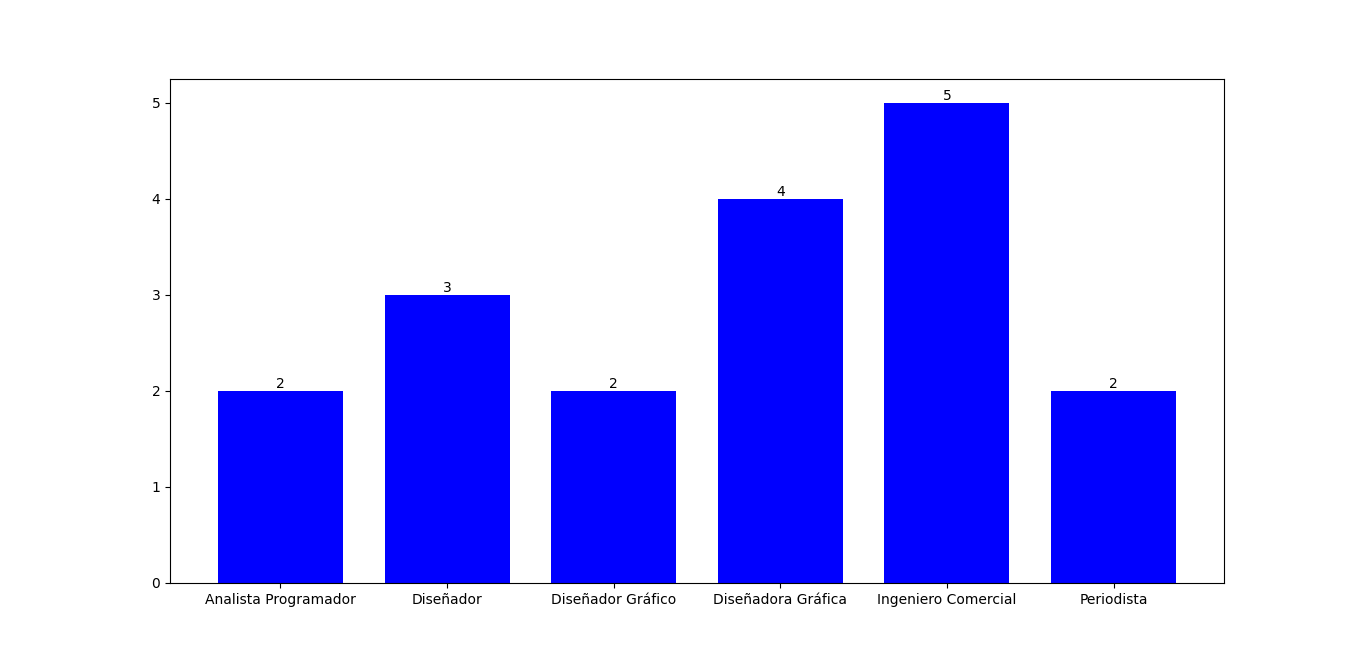
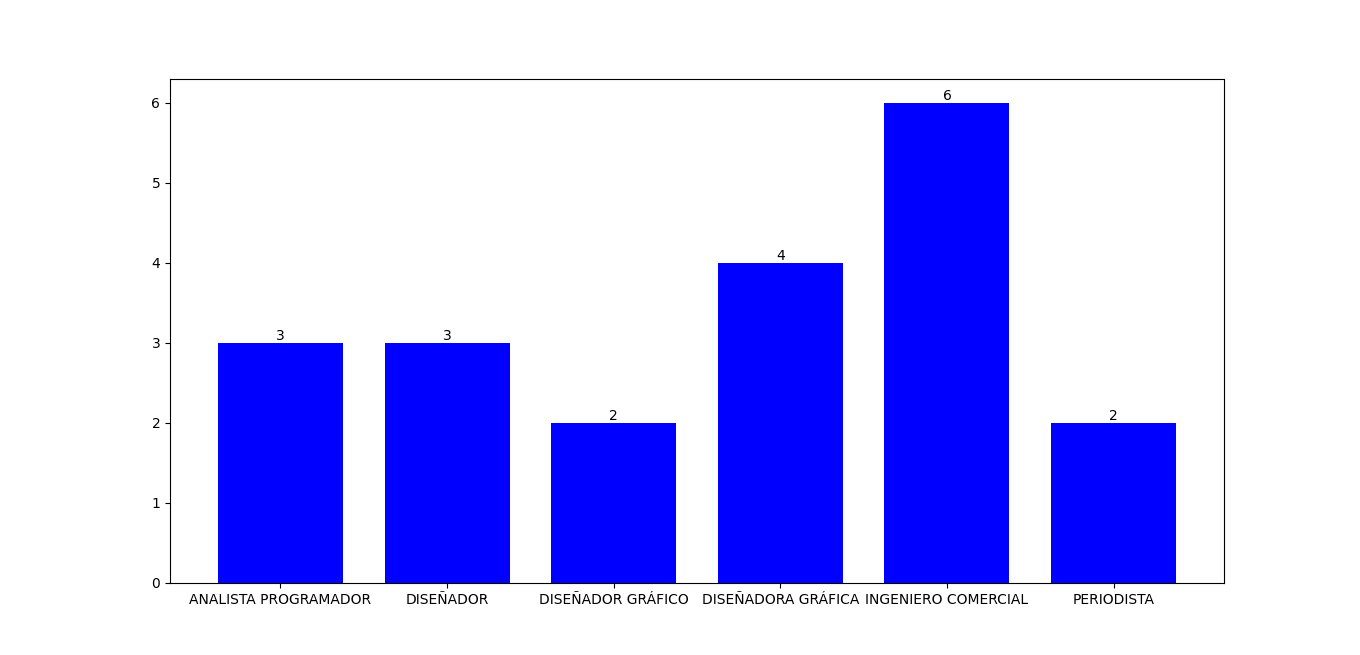
cambios

diff --git a/datos_usuarios/analisis.py b/datos_usuarios/analisis.py
@@ -20,7 +20,9 @@ usuarios['desc_profesional']=usuarios['desc_profesional'].str.strip()
 agrupar_por_comuna=merge.groupby(['Nombre Comuna'])[['nomb_usuario']].count()
 agrupar_por_region=merge.groupby(['Nombre Región'])[['nomb_usuario']].count()
 
-agrupar_por_cat=usuarios.groupby(['desc_profesional'], dropna=False)[['nomb_usuario']].count()
+
+usuarios['desc_profesional']=usuarios['desc_profesional'].str.upper()
+agrupar_por_cat=usuarios.groupby(['desc_profesional'])[['nomb_usuario']].count()
 
 
 #imprimir los datos
@@ -38,11 +40,11 @@ print(usuarios.isna().sum())
 
 agrupar_por_cat=agrupar_por_cat.reset_index()
 
-
+print(agrupar_por_cat)
 
 #sacar un grafico
 
-"""
+
 x=agrupar_por_cat['desc_profesional']
 y=agrupar_por_cat[agrupar_por_cat['nomb_usuario']!=1]
 
@@ -51,17 +53,16 @@ fig, ax = plt.subplots()
 
 
 
-plt.bar(y['desc_profesional'],y['nomb_usuario'],width=0.75, color="blue" )
+plt.bar(y['desc_profesional'] ,y['nomb_usuario'] ,width=0.75, color="blue" )
 
 ax.bar_label(ax.containers[0])
 
 #plt.savefig('clientes_region_bar.png')
 
 
-
+plt.show()
 
 plt.close('all')
-
 
 """
 
@@ -74,4 +75,6 @@ plt.xticks(range(len(D)), list(D.keys()))
 
 plt.xticks(rotation=60)
 
-plt.show()
+
+
+"""
